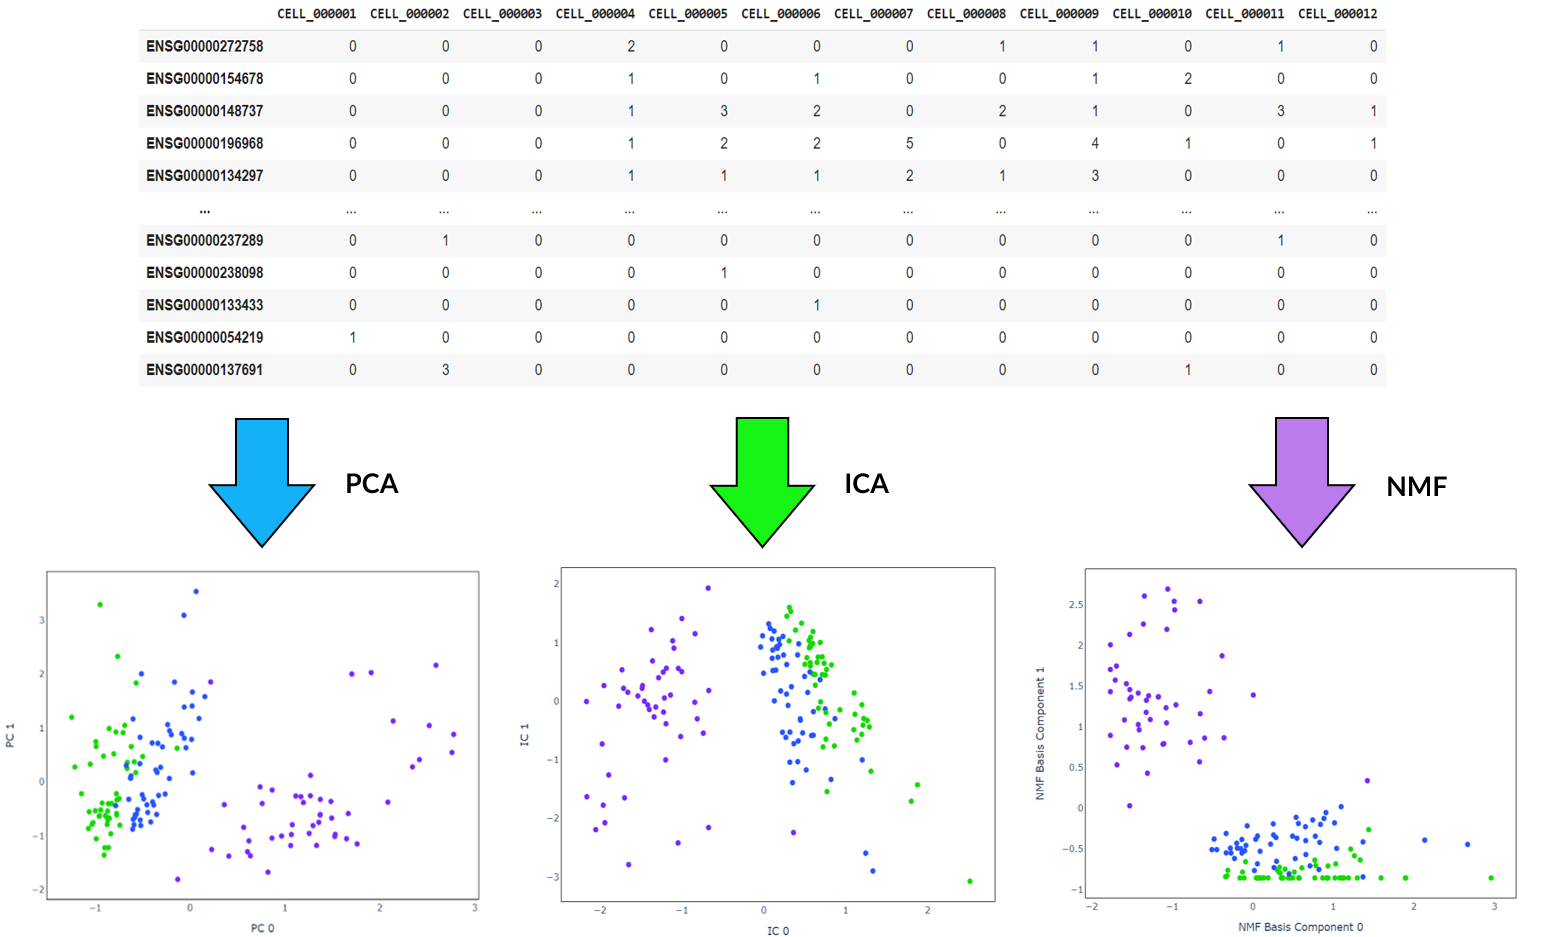
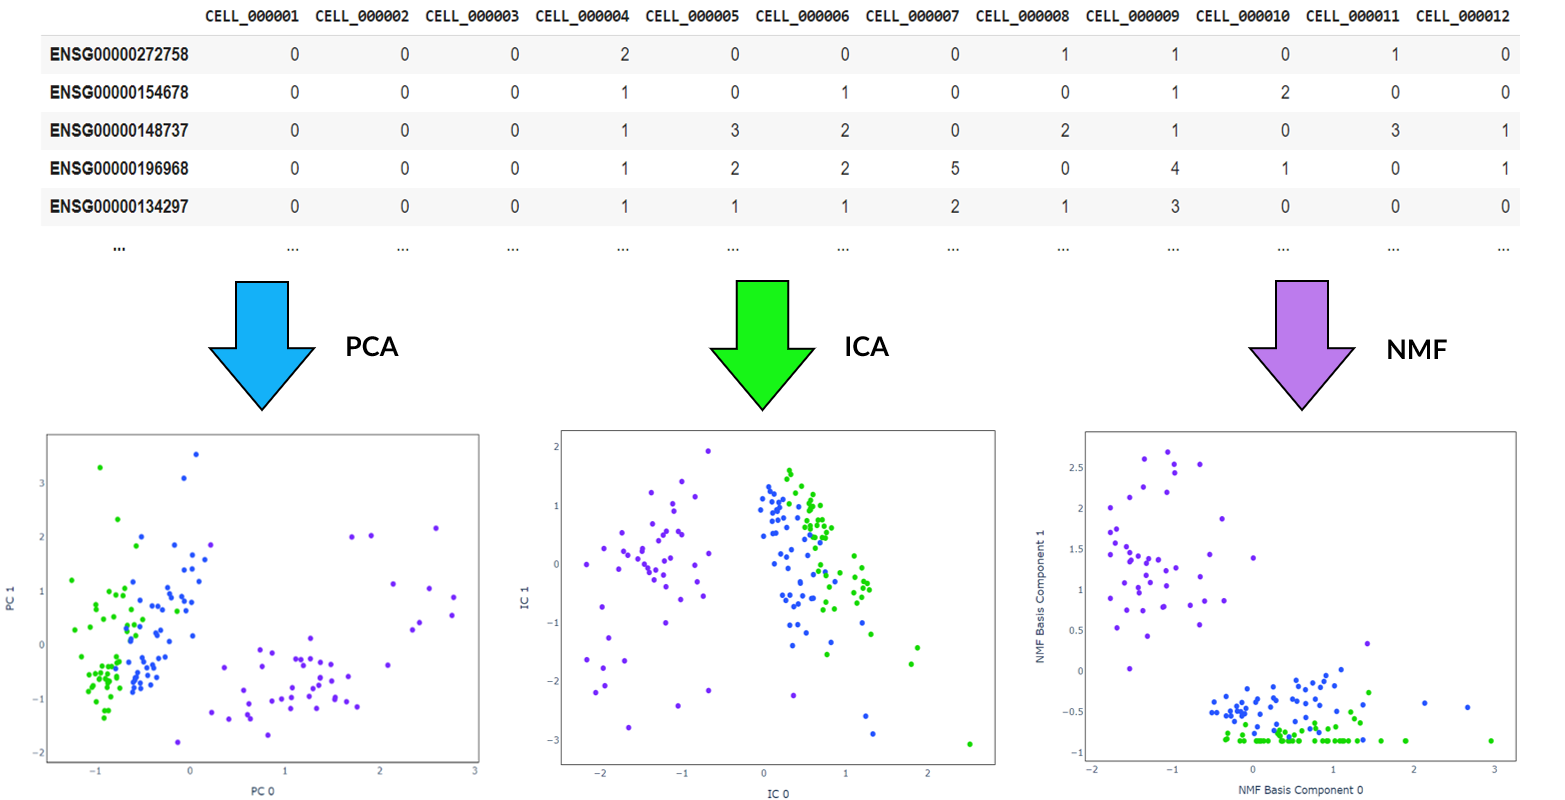
Added more text

diff --git a/index.html b/index.html
@@ -25,7 +25,8 @@
 		<a href="https://tommakesthings.github.io/" id="username" class="navtext">TomMakesThings</a>
 	</div>
 	<div id="header-center">
-		<a href="index.html" class="navtext">Clustering and TDA of scRNA-Seq Data</a>
+		<a href="https://github.com/TomMakesThings/Clustering-and-TDA-of-scRNA-seq-Data" class="navtext">Clustering and TDA of scRNA-Seq Data</a>
+		<a href="https://github.com/TomMakesThings/Clustering-and-TDA-of-scRNA-seq-Data"><img src="Assets/Images/GitHub-Logo-White.png" alt="GitHub logo" id="github"></a>
 	</div>
 	<div class="header-right">
 		<a href="#about" class="navtext">About</a>
@@ -221,12 +222,17 @@
 		</div>
 
 		<h3>t-Distributed Stochastic Neighbor Embedding</h3>
-		<p>In addition, some other preprocessing techniques that may improve performance include </p>
+		<p>t-SNE is an algorithm well suited to the visualisation of high-dimensional data.
+		</p>
 
-		<p class="preprocessing-horizontal"><img src="Assets/Images/Preprocessing.png"></p>
-		<p class="preprocessing-vertical"><img src="Assets/Images/Preprocessing-Vertical.png"></p>
+		<p class="preprocessing"><img src="Assets/Images/Preprocessing.png"></p>
+		<p class="preprocessing-cropped"><img src="Assets/Images/Preprocessing-Cropped.png"></p>
 
-		<h2>Clustering Algorithms</h2>
+		<h2>Measuring Performance</h2>
+		<p>As clustering algorithms are unsupervised, they are not guided by a target output.
+			However, just because a cluster assignment appears to make sense does not mean it is correct.
+			Fortunately, each selected dataset contains group labels so to evaluate correctness, these can be matched with predicted clusters to calculate accuracy and adjusted Rand index (ARI).
+		</p>
 
 		<div class="cluster-row">
 			<div class="cluster-column">
@@ -236,8 +242,6 @@
 				<p><img src="Assets/Images/Clustering-Example-2.png"></p>
 			</div>
 		</div>
-
-		<h2>Clustering Algorithms</h2>
 
 		<h2>Results</h2>
 

diff --git a/Stylesheets/clustering.css b/Stylesheets/clustering.css
@@ -28,20 +28,16 @@
   margin-right: -20px;
 }
 
-.preprocessing-horizontal img {
+.preprocessing img {
   width: 100%;
   max-width: 1200px;
   display: block;
-  margin-rigth: -15px;
 }
 
-.preprocessing-vertical img {
+.preprocessing-cropped img {
   width: 100%;
-  max-width: 210px;
+  max-width: 600px;
   display: none;
-  float: right;
-  margin-left: 15px;
-  margin-right: -35px;
 }
 
 .feature-extractors img {
@@ -68,13 +64,12 @@
     float: none;
     width: 100%;
   }
-}
 
-@media screen and (max-width: 1200px) {
-  .preprocessing-vertical img {
+  .preprocessing-cropped img {
     display: block;
   }
-  .preprocessing-horizontal img {
+
+  .preprocessing img {
     display: none;
   }
 }

diff --git a/Stylesheets/navbar.css b/Stylesheets/navbar.css
@@ -5,6 +5,12 @@
 	border-radius: 50%;
 }
 
+#github {
+  max-width: 50px;
+  max-height: 50px;
+  margin-bottom: -15px;
+}
+
 #username {
   font-size: 25px;
 }
